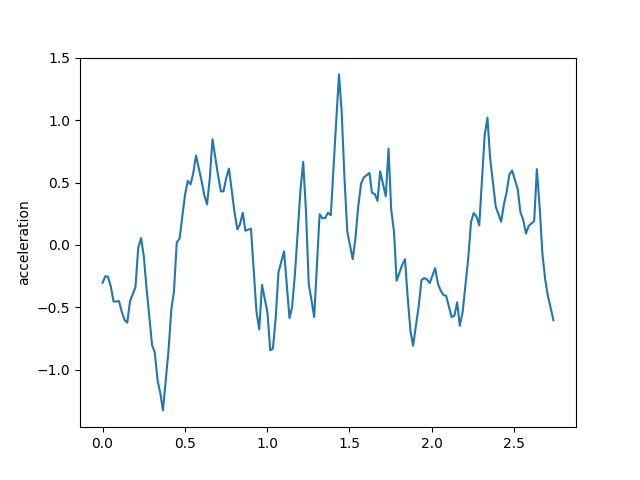
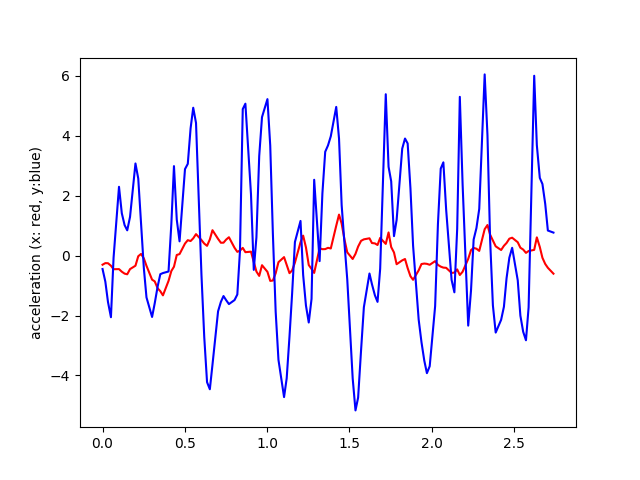
adding x and y on same

diff --git a/plot.py b/plot.py
@@ -5,8 +5,8 @@ x = [-0.303729, -0.251149, -0.254816, -0.337528, -0.454703, -0.450725, -0.537257
 y = [-0.447704, -0.870495, -1.54758, -2.05614, -0.0687199, 2.29575, 1.414, 1.01738, 0.843298, 1.29023, 3.07415, 2.57064, 1.06788, -0.422223, -1.39504, -2.04813, -1.59348, -1.02497, -0.620862, -0.582752, -0.530251, 1.05119, 2.98578, 1.20057, 0.475907, 2.88573, 3.06203, 4.24596, 4.93397, 4.42532, -0.631676, -2.71683, -4.22316, -4.46034, -3.64122, -1.85891, -1.54581, -1.34974, -1.48669, -1.61793, -1.48449, -1.2977, 0.147106, 4.88965, 5.06936, 2.04966, -0.476181, 0.609288, 3.32289, 4.6218, 5.2221, 3.66835, 0.737453, -1.8735, -3.4795, -4.72135, -4.09398, -2.6999, -1.26198, 0.453105, 1.15619, -0.646218, -1.66584, -2.23263, -1.44553, 2.53025, -0.1848, 2.07736, 3.46374, 3.67694, 3.98243, 4.96133, 3.9036, 1.68291, 0.41329, -0.793365, -4.09689, -5.16584, -4.73954, -3.15101, -1.72143, -0.597661, -0.952522, -1.32457, -1.54464, -0.441228, 5.3848, 2.96312, 2.47872, 0.649265, 1.19084, 3.56965, 3.90618, 3.7421, 2.24264, 0.33293, -2.13658, -2.88794, -3.50192, -3.92294, -3.69109, -1.68718, 1.04885, 2.90242, 3.11166, 1.53125, -0.81218, -1.22514, 0.89513, 5.29784, 2.36682, -2.3368, -1.16456, 0.53545, 0.918669, 1.55737, 6.04656, 4.01956, 0.547374, -1.66089, -2.56881, -2.14302, -1.70728, -0.755938, -0.0694046, 0.260124, -0.824108, -2.00373, -2.54124, -2.82573, -1.72782, 6.00121, 3.68682, 2.59255, 2.38911, 1.72389, 0.836675, 0.767571]
 z = [-0.433731, -0.343655, -0.0699339, 0.0354989, -0.583444, -0.653497, -0.150495, 0.325234, 0.537432, 0.555252, 0.252, 0.196817, 0.427065, 0.621349, 0.769813, 0.807014, 0.644761, 0.399194, 0.163919, -0.0437302, -0.62805, -1.23415, -1.88687, -1.1408, -0.490648, 0.119246, 0.181895, 0.0851376, -0.0902051, -0.134526, 0.829773, 1.29917, 1.63408, 1.28128, 1.07442, 0.50213, 0.0754026, -0.0870086, -0.198313, -0.000572549, 0.342308, 0.472322, -0.136751, -1.24611, -0.795395, -0.560444, 0.0334187, -0.0704101, -0.286851, -0.428754, -0.645509, 0.0273718, 0.52366, 0.936546, 0.98389, 1.12523, 1.30631, 1.23313, 0.687211, 0.026414, -0.66643, -0.362807, -0.197753, 0.188981, -0.182194, -1.02734, -0.239798, -0.561381, -0.352064, -0.344005, -0.359657, -0.565482, -0.528162, -0.0242983, 0.22946, 0.47286, 1.16691, 1.15167, 0.886993, 0.584263, 0.212113, -0.393989, -0.399282, -0.340307, -0.209847, -1.04572, -1.50247, -1.30672, -0.763823, 0.00909243, 0.117841, -0.120383, -0.462562, -0.381481, -0.0519812, 0.200062, 0.163413, 0.160595, 0.201509, 0.402621, 0.496913, 0.406135, -0.13841, -0.639009, -0.87703, -0.59923, 0.0681835, 0.133352, -0.748049, -1.79717, -0.595188, 0.494452, 0.564366, 0.399657, 0.654616, 0.518767, -0.486216, -0.379747, 0.653294, 1.13083, 1.55177, 1.72518, 1.34418, 0.793954, 0.203324, -0.299411, -0.175914, 0.168198, 0.437984, 0.825515, 0.614977, -1.23042, -0.538897, -0.835553, -0.419923, -0.216092, 0.237707, 0.387102]
 
-plt.plot(t,x)
-plt.ylabel('acceleration')
+plt.plot(t,x,'r', t,y, 'b')
+plt.ylabel('acceleration (x: red, y:blue)')
 
 plt.savefig('walk4_xt')
 plt.show()
